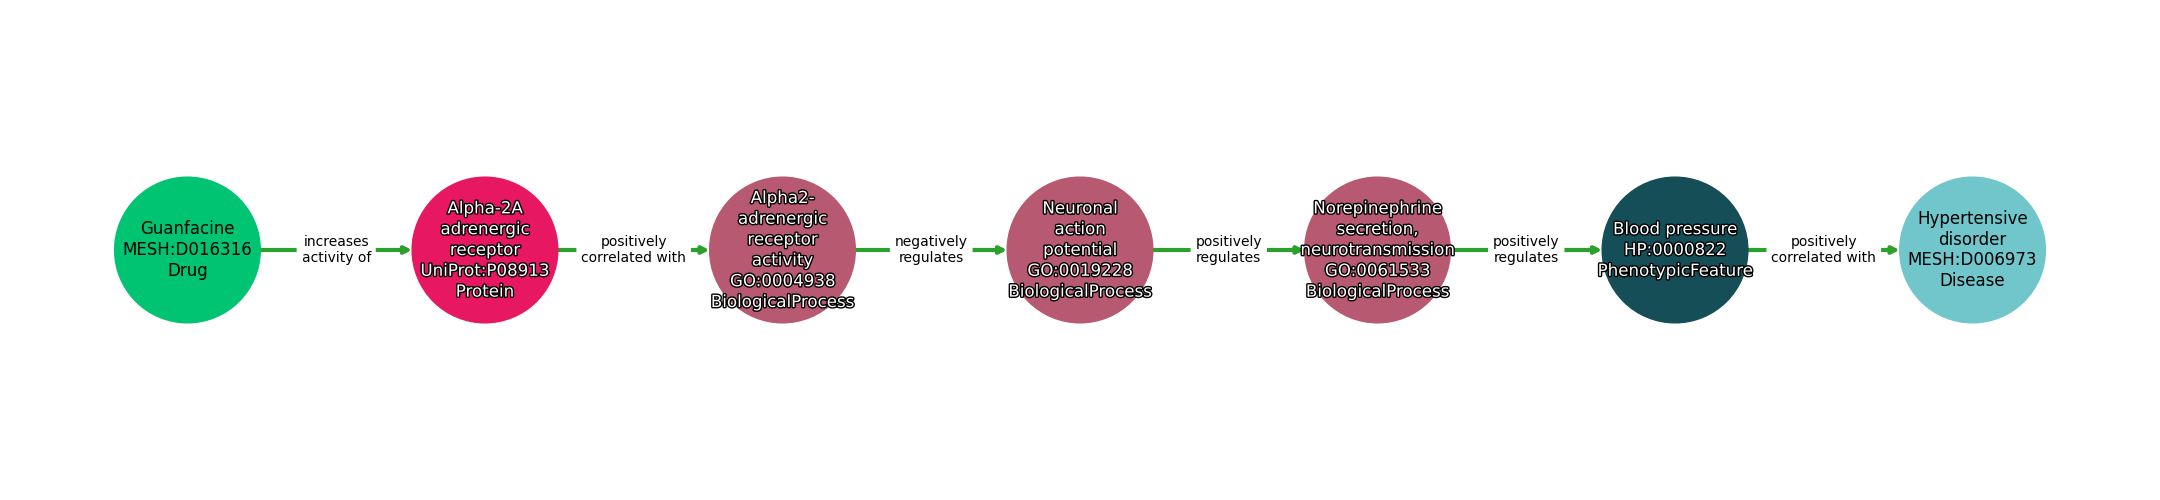
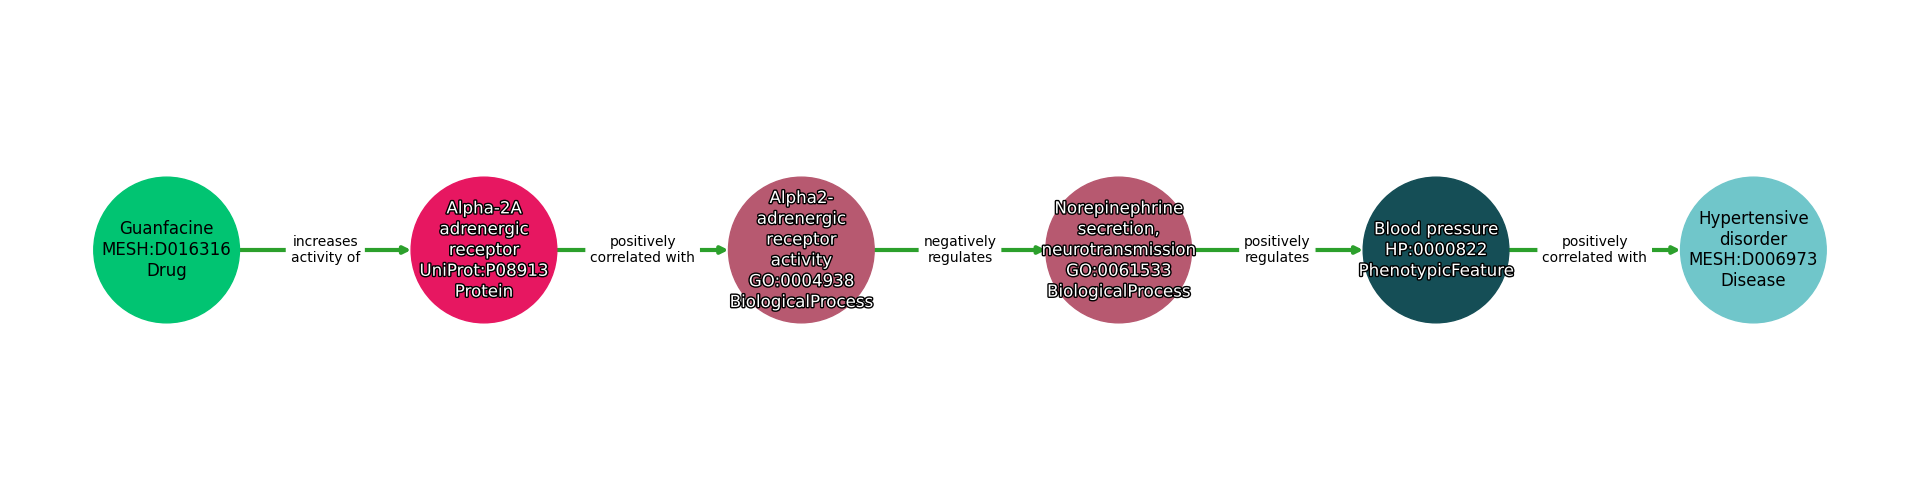
Update to Website

Changed region(s): [[0.0312, 0.33, 0.9688, 0.66]]

diff --git a/pages/mydoc/overview.md b/pages/mydoc/overview.md
@@ -1624,7 +1624,7 @@ datatable: true
 | [DB00993_MESH_D001172_1](db00993-mesh-d001172-1.html) | azathioprine | DB:DB00993 | MESH:D001379 | Rheumatoid arthritis | MESH:D001172 | 11 | 13 |
 | [DB00875_MESH_D012559_1](db00875-mesh-d012559-1.html) | flupentixol | DB:DB00875 | MESH:D005475 | Schizophrenia | MESH:D012559 | 4 | 3 |
 | [DB01018_MESH_D001289_1](db01018-mesh-d001289-1.html) | guanfacine | DB:DB01018 | MESH:D016316 | Attention deficit hyperactivity disorder | MESH:D001289 | 3 | 2 |
-| [DB01018_MESH_D006973_1](db01018-mesh-d006973-1.html) | guanfacine | DB:DB01018 | MESH:D016316 | Hypertensive disorder | MESH:D006973 | 7 | 6 |
+| [DB01018_MESH_D006973_1](db01018-mesh-d006973-1.html) | guanfacine | DB:DB01018 | MESH:D016316 | Hypertensive disorder | MESH:D006973 | 6 | 5 |
 | [DB01062_MESH_D053202_1](db01062-mesh-d053202-1.html) | oxybutynin | DB:DB01062 | MESH:C005419 | Urge incontinence of urine | MESH:D053202 | 7 | 8 |
 | [DB01062_MESH_D001750_1](db01062-mesh-d001750-1.html) | oxybutynin | DB:DB01062 | MESH:C005419 | Neurogenic bladder | MESH:D001750 | 7 | 8 |
 | [DB01152_MESH_D002181_1](db01152-mesh-d002181-1.html) | candicidin | DB:DB01152 | MESH:D002174 | Candidiasis of vagina | MESH:D002181 | 6 | 5 |
@@ -2228,6 +2228,14 @@ datatable: true
 | [DB01185_MESH_D005058_1](db01185-mesh-d005058-1.html) | Fluoxymesterone | DB:DB01185 | MESH:D005474 | Eunuchism | MESH:D005058 | 4 | 3 |
 | [DB01185_MESH_D009224_1](db01185-mesh-d009224-1.html) | Fluoxymesterone | DB:DB01185 | MESH:D005474 | Myotonia Congenita | MESH:D009224 | 2 | 1 |
 | [DB01185_MESH_D009634_1](db01185-mesh-d009634-1.html) | Fluoxymesterone | DB:DB01185 | MESH:D005474 | Noonan syndrome | MESH:D009634 | 2 | 1 |
+| [DB01021_MESH_D006973_3](db01021-mesh-d006973-3.html) | Trichlormethiazide | DB:DB01021 | MESH:D014237 | Hypertension | MESH:D006973 | 6 | 5 |
+| [DB01619_MESH_D014581_2](db01619-mesh-d014581-2.html) | Phenindamine | DB:DB01619 | MESH:C005430 | Urticaria | MESH:D014581 | 5 | 4 |
+| [DB01619_MESH_D011537_2](db01619-mesh-d011537-2.html) | Phenindamine | DB:DB01619 | MESH:C005430 | Pruritus | MESH:D011537 | 5 | 4 |
+| [DB01619_MESH_D012912_2](db01619-mesh-d012912-2.html) | Phenindamine | DB:DB01619 | MESH:C005430 | Sneezing | MESH:D012912 | 5 | 4 |
+| [DB01619_MESH_D065631_2](db01619-mesh-d065631-2.html) | Phenindamine | DB:DB01619 | MESH:C005430 | Allergic rhinitis | MESH:D065631 | 5 | 4 |
+| [DB01619_MESH_D012223_2](db01619-mesh-d012223-2.html) | Phenindamine | DB:DB01619 | MESH:C005430 | Vasomotor rhinitis | MESH:D012223 | 5 | 4 |
+| [DB01619_MESH_D003233_2](db01619-mesh-d003233-2.html) | Phenindamine | DB:DB01619 | MESH:C005430 | Allergic conjunctivitis | MESH:D003233 | 5 | 4 |
+| [DB12086_MESH_D029424_2](db12086-mesh-d029424-2.html) | Oxitropium | DB:DB12086 | MESH:C017590 | Chronic obstructive lung disease | MESH:D029424 | 5 | 4 |
 |--------|-----|-------------|--------------|---------|-----------------|--------------------|----------------------|
 
 <div class="datatable-end"></div>

diff --git a/pages/mydoc/db01021-mesh-d006973-3.md b/pages/mydoc/db01021-mesh-d006973-3.md
@@ -1,0 +1,40 @@
+---
+title: "Trichlormethiazide - Hypertension - 3"
+sidebar: mydoc_sidebar
+permalink: db01021-mesh-d006973-3.html
+toc: false 
+---
+
+
+Path ID: `DB01021_MESH_D006973_3`
+{% include image.html url="images/db01021-mesh-d006973-3.png" file="db01021-mesh-d006973-3.png" alt="db01021-mesh-d006973-3" %}
+
+## Concepts
+
+|------------|------|---------|
+| Identifier | Name | Type    |
+|------------|------|---------|
+| MESH:D014237 | Trichlormethiazide | Drug |
+| UniProt:P55017 | Solute carrier family 12 member 3 | Protein |
+| GO:0070294 | Renal sodium ion absorption | BiologicalProcess |
+| UBERON:0005164 | Ascending limb of loop of Henle | GrossAnatomicalStructure |
+| GO:0035812 | Renal sodium excretion | BiologicalProcess |
+| MESH:D006973 | Hypertension | Disease |
+|------------|------|---------|
+
+## Relationships
+
+|---------|-----------|---------|
+| Subject | Predicate | Object  |
+|---------|-----------|---------|
+| Trichlormethiazide | DECREASES ACTIVITY OF | Solute Carrier Family 12 Member 3 |
+| Solute Carrier Family 12 Member 3 | DECREASES ACTIVITY OF | Renal Sodium Ion Absorption |
+| Renal Sodium Ion Absorption | LOCATED IN | Ascending Limb Of Loop Of Henle |
+| Ascending Limb Of Loop Of Henle | INCREASES ACTIVITY OF | Renal Sodium Excretion |
+| Renal Sodium Excretion | AMELIORATES | Hypertension |
+|---------|-----------|---------|
+
+Reference: 
+  - [https://go.drugbank.com/drugs/DB01021](https://go.drugbank.com/drugs/DB01021)
+  - [https://en.wikipedia.org/wiki/Thiazide](https://en.wikipedia.org/wiki/Thiazide)
+  - [https://en.wikipedia.org/wiki/Trichlormethiazide](https://en.wikipedia.org/wiki/Trichlormethiazide)

diff --git a/pages/mydoc/db01619-mesh-d003233-2.md b/pages/mydoc/db01619-mesh-d003233-2.md
@@ -1,0 +1,38 @@
+---
+title: "Phenindamine - Allergic Conjunctivitis - 2"
+sidebar: mydoc_sidebar
+permalink: db01619-mesh-d003233-2.html
+toc: false 
+---
+
+
+Path ID: `DB01619_MESH_D003233_2`
+{% include image.html url="images/db01619-mesh-d003233-2.png" file="db01619-mesh-d003233-2.png" alt="db01619-mesh-d003233-2" %}
+
+## Concepts
+
+|------------|------|---------|
+| Identifier | Name | Type    |
+|------------|------|---------|
+| MESH:C005430 | Phenindamine | Drug |
+| UniProt:P35367 | Histamine H1 receptor | Protein |
+| MESH:D006632 | Histamine | ChemicalSubstance |
+| GO:0002524 | Hypersensitivity | BiologicalProcess |
+| MESH:D003233 | Allergic conjunctivitis | Disease |
+|------------|------|---------|
+
+## Relationships
+
+|---------|-----------|---------|
+| Subject | Predicate | Object  |
+|---------|-----------|---------|
+| Phenindamine | DECREASES ACTIVITY OF | Histamine H1 Receptor |
+| Histamine H1 Receptor | DECREASES MOLECULAR INTERACTION | Histamine |
+| Histamine | AMELIORATES | Hypersensitivity |
+| Hypersensitivity | CORRELATED WITH | Allergic Conjunctivitis |
+|---------|-----------|---------|
+
+Reference: 
+  - [https://go.drugbank.com/drugs/DB01619](https://go.drugbank.com/drugs/DB01619)
+  - [https://pubchem.ncbi.nlm.nih.gov/compound/Phenindamine#section=MeSH-Pharmacological-Classification](https://pubchem.ncbi.nlm.nih.gov/compound/Phenindamine#section=MeSH-Pharmacological-Classification)
+  - [https://en.wikipedia.org/wiki/Antihistamine](https://en.wikipedia.org/wiki/Antihistamine)

diff --git a/pages/mydoc/db12086-mesh-d029424-2.md b/pages/mydoc/db12086-mesh-d029424-2.md
@@ -1,0 +1,39 @@
+---
+title: "Oxitropium - Chronic Obstructive Lung Disease - 2"
+sidebar: mydoc_sidebar
+permalink: db12086-mesh-d029424-2.html
+toc: false 
+---
+
+
+Path ID: `DB12086_MESH_D029424_2`
+{% include image.html url="images/db12086-mesh-d029424-2.png" file="db12086-mesh-d029424-2.png" alt="db12086-mesh-d029424-2" %}
+
+## Concepts
+
+|------------|------|---------|
+| Identifier | Name | Type    |
+|------------|------|---------|
+| MESH:C017590 | Oxitropium | Drug |
+| UniProt:P20309 | Muscarinic acetylcholine receptor M3 | Protein |
+| GO:0006939 | Smooth muscle contraction | BiologicalProcess |
+| GO:0097366 | Response to bronchodilator | BiologicalProcess |
+| MESH:D029424 | Chronic obstructive lung disease | Disease |
+|------------|------|---------|
+
+## Relationships
+
+|---------|-----------|---------|
+| Subject | Predicate | Object  |
+|---------|-----------|---------|
+| Oxitropium | DECREASES ACTIVITY OF | Muscarinic Acetylcholine Receptor M3 |
+| Muscarinic Acetylcholine Receptor M3 | NEGATIVELY REGULATES | Smooth Muscle Contraction |
+| Smooth Muscle Contraction | INCREASES ACTIVITY OF | Response To Bronchodilator |
+| Response To Bronchodilator | AMELIORATES | Chronic Obstructive Lung Disease |
+|---------|-----------|---------|
+
+Comment: Oxitropium is used as Oxitropium bromide for treatment
+
+Reference: 
+  - [https://go.drugbank.com/drugs/DB12086](https://go.drugbank.com/drugs/DB12086)
+  - [https://drugs.ncats.io/drug/8G15T83E6I](https://drugs.ncats.io/drug/8G15T83E6I)

diff --git a/pages/mydoc/db01619-mesh-d012223-2.md b/pages/mydoc/db01619-mesh-d012223-2.md
@@ -1,0 +1,38 @@
+---
+title: "Phenindamine - Vasomotor Rhinitis - 2"
+sidebar: mydoc_sidebar
+permalink: db01619-mesh-d012223-2.html
+toc: false 
+---
+
+
+Path ID: `DB01619_MESH_D012223_2`
+{% include image.html url="images/db01619-mesh-d012223-2.png" file="db01619-mesh-d012223-2.png" alt="db01619-mesh-d012223-2" %}
+
+## Concepts
+
+|------------|------|---------|
+| Identifier | Name | Type    |
+|------------|------|---------|
+| MESH:C005430 | Phenindamine | Drug |
+| UniProt:P35367 | Histamine H1 receptor | Protein |
+| MESH:D006632 | Histamine | ChemicalSubstance |
+| GO:0002524 | Hypersensitivity | BiologicalProcess |
+| MESH:D012223 | Vasomotor rhinitis | Disease |
+|------------|------|---------|
+
+## Relationships
+
+|---------|-----------|---------|
+| Subject | Predicate | Object  |
+|---------|-----------|---------|
+| Phenindamine | DECREASES ACTIVITY OF | Histamine H1 Receptor |
+| Histamine H1 Receptor | DECREASES MOLECULAR INTERACTION | Histamine |
+| Histamine | AMELIORATES | Hypersensitivity |
+| Hypersensitivity | CORRELATED WITH | Vasomotor Rhinitis |
+|---------|-----------|---------|
+
+Reference: 
+  - [https://go.drugbank.com/drugs/DB01619](https://go.drugbank.com/drugs/DB01619)
+  - [https://pubchem.ncbi.nlm.nih.gov/compound/Phenindamine#section=MeSH-Pharmacological-Classification](https://pubchem.ncbi.nlm.nih.gov/compound/Phenindamine#section=MeSH-Pharmacological-Classification)
+  - [https://en.wikipedia.org/wiki/Antihistamine](https://en.wikipedia.org/wiki/Antihistamine)

diff --git a/pages/mydoc/db01619-mesh-d065631-2.md b/pages/mydoc/db01619-mesh-d065631-2.md
@@ -1,0 +1,38 @@
+---
+title: "Phenindamine - Allergic Rhinitis - 2"
+sidebar: mydoc_sidebar
+permalink: db01619-mesh-d065631-2.html
+toc: false 
+---
+
+
+Path ID: `DB01619_MESH_D065631_2`
+{% include image.html url="images/db01619-mesh-d065631-2.png" file="db01619-mesh-d065631-2.png" alt="db01619-mesh-d065631-2" %}
+
+## Concepts
+
+|------------|------|---------|
+| Identifier | Name | Type    |
+|------------|------|---------|
+| MESH:C005430 | Phenindamine | Drug |
+| UniProt:P35367 | Histamine H1 receptor | Protein |
+| MESH:D006632 | Histamine | ChemicalSubstance |
+| GO:0002524 | Hypersensitivity | BiologicalProcess |
+| MESH:D065631 | Allergic rhinitis | Disease |
+|------------|------|---------|
+
+## Relationships
+
+|---------|-----------|---------|
+| Subject | Predicate | Object  |
+|---------|-----------|---------|
+| Phenindamine | DECREASES ACTIVITY OF | Histamine H1 Receptor |
+| Histamine H1 Receptor | DECREASES MOLECULAR INTERACTION | Histamine |
+| Histamine | AMELIORATES | Hypersensitivity |
+| Hypersensitivity | CORRELATED WITH | Allergic Rhinitis |
+|---------|-----------|---------|
+
+Reference: 
+  - [https://go.drugbank.com/drugs/DB01619](https://go.drugbank.com/drugs/DB01619)
+  - [https://pubchem.ncbi.nlm.nih.gov/compound/Phenindamine#section=MeSH-Pharmacological-Classification](https://pubchem.ncbi.nlm.nih.gov/compound/Phenindamine#section=MeSH-Pharmacological-Classification)
+  - [https://en.wikipedia.org/wiki/Antihistamine](https://en.wikipedia.org/wiki/Antihistamine)

diff --git a/pages/mydoc/db01619-mesh-d014581-2.md b/pages/mydoc/db01619-mesh-d014581-2.md
@@ -1,0 +1,38 @@
+---
+title: "Phenindamine - Urticaria - 2"
+sidebar: mydoc_sidebar
+permalink: db01619-mesh-d014581-2.html
+toc: false 
+---
+
+
+Path ID: `DB01619_MESH_D014581_2`
+{% include image.html url="images/db01619-mesh-d014581-2.png" file="db01619-mesh-d014581-2.png" alt="db01619-mesh-d014581-2" %}
+
+## Concepts
+
+|------------|------|---------|
+| Identifier | Name | Type    |
+|------------|------|---------|
+| MESH:C005430 | Phenindamine | Drug |
+| UniProt:P35367 | Histamine H1 receptor | Protein |
+| MESH:D006632 | Histamine | ChemicalSubstance |
+| GO:0002524 | Hypersensitivity | BiologicalProcess |
+| MESH:D014581 | Urticaria | Disease |
+|------------|------|---------|
+
+## Relationships
+
+|---------|-----------|---------|
+| Subject | Predicate | Object  |
+|---------|-----------|---------|
+| Phenindamine | DECREASES ACTIVITY OF | Histamine H1 Receptor |
+| Histamine H1 Receptor | DECREASES MOLECULAR INTERACTION | Histamine |
+| Histamine | AMELIORATES | Hypersensitivity |
+| Hypersensitivity | CORRELATED WITH | Urticaria |
+|---------|-----------|---------|
+
+Reference: 
+  - [https://go.drugbank.com/drugs/DB01619](https://go.drugbank.com/drugs/DB01619)
+  - [https://pubchem.ncbi.nlm.nih.gov/compound/Phenindamine#section=MeSH-Pharmacological-Classification](https://pubchem.ncbi.nlm.nih.gov/compound/Phenindamine#section=MeSH-Pharmacological-Classification)
+  - [https://en.wikipedia.org/wiki/Antihistamine](https://en.wikipedia.org/wiki/Antihistamine)

diff --git a/pages/mydoc/db01619-mesh-d011537-2.md b/pages/mydoc/db01619-mesh-d011537-2.md
@@ -1,0 +1,38 @@
+---
+title: "Phenindamine - Pruritus - 2"
+sidebar: mydoc_sidebar
+permalink: db01619-mesh-d011537-2.html
+toc: false 
+---
+
+
+Path ID: `DB01619_MESH_D011537_2`
+{% include image.html url="images/db01619-mesh-d011537-2.png" file="db01619-mesh-d011537-2.png" alt="db01619-mesh-d011537-2" %}
+
+## Concepts
+
+|------------|------|---------|
+| Identifier | Name | Type    |
+|------------|------|---------|
+| MESH:C005430 | Phenindamine | Drug |
+| UniProt:P35367 | Histamine H1 receptor | Protein |
+| MESH:D006632 | Histamine | ChemicalSubstance |
+| GO:0002524 | Hypersensitivity | BiologicalProcess |
+| MESH:D011537 | Pruritus | Disease |
+|------------|------|---------|
+
+## Relationships
+
+|---------|-----------|---------|
+| Subject | Predicate | Object  |
+|---------|-----------|---------|
+| Phenindamine | DECREASES ACTIVITY OF | Histamine H1 Receptor |
+| Histamine H1 Receptor | DECREASES MOLECULAR INTERACTION | Histamine |
+| Histamine | AMELIORATES | Hypersensitivity |
+| Hypersensitivity | CORRELATED WITH | Pruritus |
+|---------|-----------|---------|
+
+Reference: 
+  - [https://go.drugbank.com/drugs/DB01619](https://go.drugbank.com/drugs/DB01619)
+  - [https://pubchem.ncbi.nlm.nih.gov/compound/Phenindamine#section=MeSH-Pharmacological-Classification](https://pubchem.ncbi.nlm.nih.gov/compound/Phenindamine#section=MeSH-Pharmacological-Classification)
+  - [https://en.wikipedia.org/wiki/Antihistamine](https://en.wikipedia.org/wiki/Antihistamine)

diff --git a/pages/mydoc/db01619-mesh-d012912-2.md b/pages/mydoc/db01619-mesh-d012912-2.md
@@ -1,0 +1,38 @@
+---
+title: "Phenindamine - Sneezing - 2"
+sidebar: mydoc_sidebar
+permalink: db01619-mesh-d012912-2.html
+toc: false 
+---
+
+
+Path ID: `DB01619_MESH_D012912_2`
+{% include image.html url="images/db01619-mesh-d012912-2.png" file="db01619-mesh-d012912-2.png" alt="db01619-mesh-d012912-2" %}
+
+## Concepts
+
+|------------|------|---------|
+| Identifier | Name | Type    |
+|------------|------|---------|
+| MESH:C005430 | Phenindamine | Drug |
+| UniProt:P35367 | Histamine H1 receptor | Protein |
+| MESH:D006632 | Histamine | ChemicalSubstance |
+| GO:0002524 | Hypersensitivity | BiologicalProcess |
+| MESH:D012912 | Sneezing | Disease |
+|------------|------|---------|
+
+## Relationships
+
+|---------|-----------|---------|
+| Subject | Predicate | Object  |
+|---------|-----------|---------|
+| Phenindamine | DECREASES ACTIVITY OF | Histamine H1 Receptor |
+| Histamine H1 Receptor | DECREASES MOLECULAR INTERACTION | Histamine |
+| Histamine | AMELIORATES | Hypersensitivity |
+| Hypersensitivity | CORRELATED WITH | Sneezing |
+|---------|-----------|---------|
+
+Reference: 
+  - [https://go.drugbank.com/drugs/DB01619](https://go.drugbank.com/drugs/DB01619)
+  - [https://pubchem.ncbi.nlm.nih.gov/compound/Phenindamine#section=MeSH-Pharmacological-Classification](https://pubchem.ncbi.nlm.nih.gov/compound/Phenindamine#section=MeSH-Pharmacological-Classification)
+  - [https://en.wikipedia.org/wiki/Antihistamine](https://en.wikipedia.org/wiki/Antihistamine)

diff --git a/pages/mydoc/db01018-mesh-d006973-1.md b/pages/mydoc/db01018-mesh-d006973-1.md
@@ -17,7 +17,6 @@ Path ID: `DB01018_MESH_D006973_1`
 | MESH:D016316 | Guanfacine | Drug |
 | UniProt:P08913 | Alpha-2A adrenergic receptor | Protein |
 | GO:0004938 | Alpha2-adrenergic receptor activity | BiologicalProcess |
-| GO:0019228 | Neuronal action potential | BiologicalProcess |
 | GO:0061533 | Norepinephrine secretion, neurotransmission | BiologicalProcess |
 | HP:0000822 | Blood pressure | PhenotypicFeature |
 | MESH:D006973 | Hypertensive disorder | Disease |
@@ -30,8 +29,7 @@ Path ID: `DB01018_MESH_D006973_1`
 |---------|-----------|---------|
 | Guanfacine | INCREASES ACTIVITY OF | Alpha-2A Adrenergic Receptor |
 | Alpha-2A Adrenergic Receptor | POSITIVELY CORRELATED WITH | Alpha2-Adrenergic Receptor Activity |
-| Alpha2-Adrenergic Receptor Activity | NEGATIVELY REGULATES | Neuronal Action Potential |
-| Neuronal Action Potential | POSITIVELY REGULATES | Norepinephrine Secretion, Neurotransmission |
+| Alpha2-Adrenergic Receptor Activity | NEGATIVELY REGULATES | Norepinephrine Secretion, Neurotransmission |
 | Norepinephrine Secretion, Neurotransmission | POSITIVELY REGULATES | Blood Pressure |
 | Blood Pressure | POSITIVELY CORRELATED WITH | Hypertensive Disorder |
 |---------|-----------|---------|
